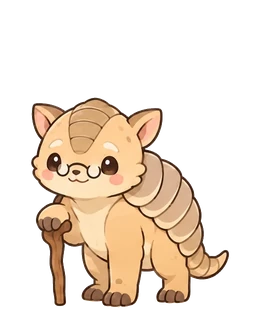
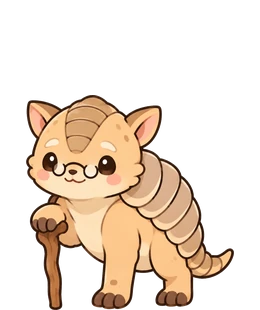
すなまる（おとしより）の 絵 4まい を あし 4本 の 絵 に 差し替え

Changed region(s): [[0.0923, 0.2903, 0.9231, 1.0], [0.6769, 0.6968, 0.7077, 0.7258]]

diff --git a/index.html b/index.html
@@ -5,10 +5,10 @@
 <link rel="icon" type="image/png" sizes="64x64" href="favicon.png?v=3">
 <link rel="apple-touch-icon" href="apple-touch-icon.png?v=3">
 <link rel="manifest" href="manifest.json">
-<script src="stickers/stickers.js?v=202610280751"></script>
-<script src="nakama/nakama.js?v=202610280751"></script>
-<script src="clock/clock.js?v=202610280751"></script>
-<script src="drill/patterns.js?v=202610280751"></script>
+<script src="stickers/stickers.js?v=202610280811"></script>
+<script src="nakama/nakama.js?v=202610280811"></script>
+<script src="clock/clock.js?v=202610280811"></script>
+<script src="drill/patterns.js?v=202610280811"></script>
 <meta name="apple-mobile-web-app-title" content="けいさん">
 <link rel="preconnect" href="https://fonts.googleapis.com">
 <link rel="preconnect" href="https://fonts.gstatic.com" crossorigin>
@@ -3466,7 +3466,7 @@ body.course .levels.nrange .lv{padding:3px 2px;font-size:12px}
   const nkSp = id => NK_LIST.find(x=>x.id===id) || NK_LIST[0];
   // ちいさい だんかいは すこし おおきく みせる（そだって いる かんじは のこす）
   const NK_SCALE = [1.9, 1.5, 1.15, 1, 1, 1];
-  const NK_IMG_VER = "3";   // なかまの え を さしかえたら ばんごうを あげる（ふるい え が のこらない ように）
+  const NK_IMG_VER = "4";   // なかまの え を さしかえたら ばんごうを あげる（ふるい え が のこらない ように）
   const nkImgSrc = (id, stage, mood) => `nakama/${id}/${NK_STAGES[stage]}_${stage===0 && mood==="s" ? "n" : mood}.webp?v=${NK_IMG_VER}`;
   const dkDate = k => { const [y,m,d]=k.split("-").map(Number); return new Date(y, m-1, d); };
   const dkAdd = (k, n) => { const d=dkDate(k); d.setDate(d.getDate()+n); return dayKey(d); };

diff --git a/CHANGELOG.md b/CHANGELOG.md
@@ -12,6 +12,9 @@
 ## 2026-10-28
 
 ### 修正（なかま）
+- **08:11** すなまる（おとしより）の絵で、あしの数がおかしかった4枚（ふつう・あさ・ひる・ねむい）を、あしが4本の絵に差し替えました。
+
+### 修正（なかま）
 - **07:50** こむぎ（おとしより）の絵で、あしの数がおかしかった6枚（ふつう・しょんぼり・あさ・ひる2枚・ねむい）を、あしが4本の絵に差し替えました。
 
 ### 追加
